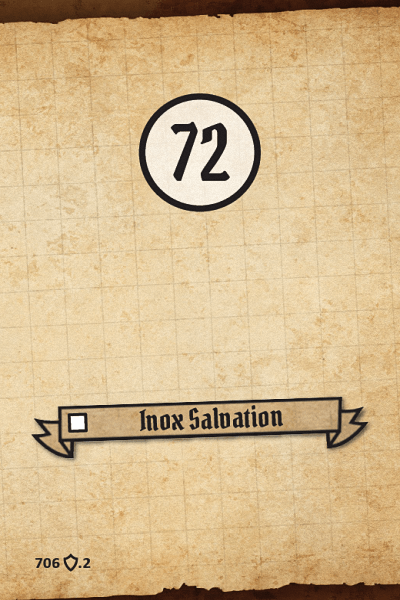
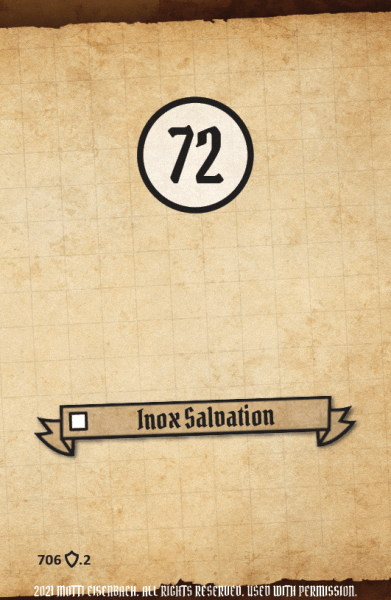
Implement New TOA RS Assets with Copyright, Standardized Sizes & Asset Numbers

diff --git a/data/random-scenarios.js b/data/random-scenarios.js
@@ -344,80 +344,131 @@
     "assetno": "####"
   },
   {
-    "name": "random scenario back",
+    "name": "inox salvation",
     "points": 43,
     "expansion": "trail of ashes",
-    "image": "random-scenarios/trail-of-ashes/toa-random-scenario-back.png",
-    "xws": "toarandomscenarioback"
+    "image": "random-scenarios/trail-of-ashes/toa-inox-salvation.png",
+    "xws": "inoxsalvation",
+    "assetno": "706"
   },
   {
-    "name": "random scenario 72",
+    "name": "706",
     "points": 44,
     "expansion": "trail of ashes",
     "image": "random-scenarios/trail-of-ashes/toa-inox-salvation.png",
-    "xws": "inoxsalvation"
+    "xws": "inoxsalvation",
+    "assetno": "706"
   },
   {
-    "name": "inox salvation",
+    "name": "random scenario 72",
     "points": 45,
     "expansion": "trail of ashes",
     "image": "random-scenarios/trail-of-ashes/toa-inox-salvation.png",
-    "xws": "inoxsalvation"
-  },
-  {
-    "name": "random scenario 73",
-    "points": 46,
-    "expansion": "trail of ashes",
-    "image": "random-scenarios/trail-of-ashes/toa-lootpalooza.png",
-    "xws": "lootpalooza"
+    "xws": "randomscenario72",
+    "assetno": "706"
   },
   {
     "name": "lootpalooza",
+    "points": 46,
+    "expansion": "trail of ashes",
+    "image": "random-scenarios/trail-of-ashes/toa-lootpalooza.png",
+    "xws": "lootpalooza",
+    "assetno": "707"
+  },
+  {
+    "name": "707",
     "points": 47,
     "expansion": "trail of ashes",
     "image": "random-scenarios/trail-of-ashes/toa-lootpalooza.png",
-    "xws": "lootpalooza"
+    "xws": "lootpalooza",
+    "assetno": "707"
   },
   {
-    "name": "random scenario 74",
+    "name": "random scenario 73",
     "points": 48,
     "expansion": "trail of ashes",
-    "image": "random-scenarios/trail-of-ashes/toa-song-of-the-harrower.png",
-    "xws": "songoftheharrower"
+    "image": "random-scenarios/trail-of-ashes/toa-lootpalooza.png",
+    "xws": "randomscenario73",
+    "assetno": "707"
+  },
+  {
+    "name": "random scenario back",
+    "points": 49,
+    "expansion": "trail of ashes",
+    "image": "random-scenarios/trail-of-ashes/toa-random-scenario-back.png",
+    "xws": "randomscenarioback",
+    "assetno": "###"
   },
   {
     "name": "song of the harrower",
-    "points": 49,
-    "expansion": "trail of ashes",
-    "image": "random-scenarios/trail-of-ashes/toa-song-of-the-harrower.png",
-    "xws": "songoftheharrower"
-  },
-  {
-    "name": "random scenario 75",
     "points": 50,
     "expansion": "trail of ashes",
-    "image": "random-scenarios/trail-of-ashes/toa-sunken-temple.png",
-    "xws": "sunkentemple"
+    "image": "random-scenarios/trail-of-ashes/toa-song-of-the-harrower.png",
+    "xws": "songoftheharrower",
+    "assetno": "708"
+  },
+  {
+    "name": "708",
+    "points": 51,
+    "expansion": "trail of ashes",
+    "image": "random-scenarios/trail-of-ashes/toa-song-of-the-harrower.png",
+    "xws": "songoftheharrower",
+    "assetno": "708"
+  },
+  {
+    "name": "random scenario 74",
+    "points": 52,
+    "expansion": "trail of ashes",
+    "image": "random-scenarios/trail-of-ashes/toa-song-of-the-harrower.png",
+    "xws": "randomscenario74",
+    "assetno": "708"
   },
   {
     "name": "sunken temple",
-    "points": 51,
+    "points": 53,
     "expansion": "trail of ashes",
     "image": "random-scenarios/trail-of-ashes/toa-sunken-temple.png",
-    "xws": "sunkentemple"
+    "xws": "sunkentemple",
+    "assetno": "709"
   },
   {
-    "name": "random scenario 76",
-    "points": 52,
+    "name": "709",
+    "points": 54,
     "expansion": "trail of ashes",
-    "image": "random-scenarios/trail-of-ashes/toa-untold-woe.png",
-    "xws": "untoldwoe"
+    "image": "random-scenarios/trail-of-ashes/toa-sunken-temple.png",
+    "xws": "sunkentemple",
+    "assetno": "709"
+  },
+  {
+    "name": "random scenario 75",
+    "points": 55,
+    "expansion": "trail of ashes",
+    "image": "random-scenarios/trail-of-ashes/toa-sunken-temple.png",
+    "xws": "randomscenario75",
+    "assetno": "709"
   },
   {
     "name": "untold woe",
-    "points": 53,
+    "points": 56,
     "expansion": "trail of ashes",
     "image": "random-scenarios/trail-of-ashes/toa-untold-woe.png",
-    "xws": "untoldwoe"
+    "xws": "untoldwoe",
+    "assetno": "710"
+  },
+  {
+    "name": "710",
+    "points": 57,
+    "expansion": "trail of ashes",
+    "image": "random-scenarios/trail-of-ashes/toa-untold-woe.png",
+    "xws": "untoldwoe",
+    "assetno": "710"
+  },
+  {
+    "name": "random scenario 76",
+    "points": 58,
+    "expansion": "trail of ashes",
+    "image": "random-scenarios/trail-of-ashes/toa-untold-woe.png",
+    "xws": "randomscenario76",
+    "assetno": "710"
   }
 ]

diff --git a/index.html b/index.html
@@ -19424,11 +19424,12 @@
 					<h1><i class="fa fa-plus"></i> Random Scenarios </h1>
 					<div class="textzone">
 						<table class="table-padded">
-							<tr><td>Random Scenario Back</td></tr>
-							<tr><td>&nbsp</td></tr>
-							<tr><td>Inox Salvation      </td><td>Sunken Temple</td></tr>
-							<tr><td>Lootpalooza         </td><td>Untold Woe   </td></tr>
-							<tr><td>Song Of The Harrower</td></tr>
+							<tr><td class="td-bu">Asset Back</td><td class="td-bu">Asset Name</td><td class="td-bu">Asset Name</td><td class="td-bu">Asset #</td></tr>
+							<tr><td>Random Scenario Back</td><td>Inox Salvation      </td><td>Random Scenario 72</td><td>706</td></tr>
+							<tr><td>&nbsp               </td><td>Lootpalooza         </td><td>Random Scenario 73</td><td>707</td></tr>
+							<tr><td>&nbsp               </td><td>Song Of The Harrower</td><td>Random Scenario 74</td><td>708</td></tr>
+                            <tr><td>&nbsp               </td><td>Sunken Temple       </td><td>Random Scenario 75</td><td>709</td></tr>
+                            <tr><td>&nbsp               </td><td>Untold Woe          </td><td>Random Scenario 76</td><td>710</td></tr>
 						</table>
 					</div>
 
@@ -20139,11 +20140,12 @@
 					<h1><i class="fa fa-plus"></i> Random Scenarios </h1>
 					<div class="textzone">
 						<table class="table-padded">
-							<tr><td>Random Scenario Back</td></tr>
-							<tr><td>&nbsp</td></tr>
-							<tr><td>Inox Salvation      </td><td>Sunken Temple</td></tr>
-							<tr><td>Lootpalooza         </td><td>Untold Woe   </td></tr>
-							<tr><td>Song Of The Harrower</td></tr>
+							<tr><td class="td-bu">Asset Back</td><td class="td-bu">Asset Name</td><td class="td-bu">Asset Name</td><td class="td-bu">Asset #</td></tr>
+							<tr><td>Random Scenario Back</td><td>Inox Salvation      </td><td>Random Scenario 72</td><td>706</td></tr>
+							<tr><td>&nbsp               </td><td>Lootpalooza         </td><td>Random Scenario 73</td><td>707</td></tr>
+							<tr><td>&nbsp               </td><td>Song Of The Harrower</td><td>Random Scenario 74</td><td>708</td></tr>
+                            <tr><td>&nbsp               </td><td>Sunken Temple       </td><td>Random Scenario 75</td><td>709</td></tr>
+                            <tr><td>&nbsp               </td><td>Untold Woe          </td><td>Random Scenario 76</td><td>710</td></tr>
 						</table>
 					</div>
 
